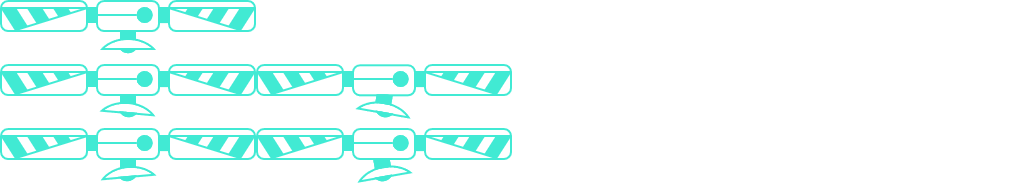
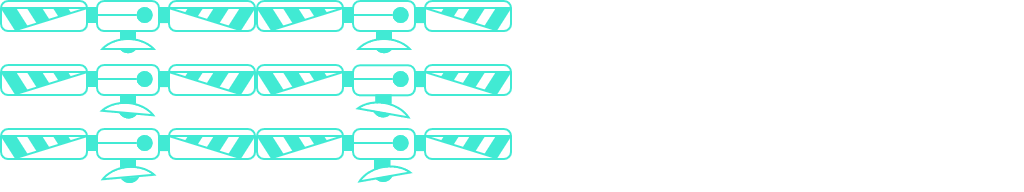
:sparkles: Add animation to Player's left-right movement

Changed region(s): [[0.25, 0.0, 0.5, 0.2812], [0.125, 0.9062, 0.1562, 0.9688]]

diff --git a/Arkanoid/Arkanoid/core/controllers/keyboard/keyboard.c b/Arkanoid/Arkanoid/core/controllers/keyboard/keyboard.c
@@ -24,6 +24,9 @@ status handle_player_movement(Allegro *allegro, bool keys[], Player *player) {
 }
 
 status handle_keyboard(Allegro *allegro, bool keys[], ALLEGRO_EVENT event, Player *player, Ball *ball, Block *block) {
+	unsigned int frame_delay = 8;
+	unsigned int frame_max = get_sprite_max_frame(get_player_sprite(player));
+
 	draw_player(player);
 	draw_ball(ball, SPRITE_FRAME_MIN_DEFAULT);
 	draw_block(block, SPRITE_FRAME_MIN_DEFAULT);
@@ -45,10 +48,12 @@ status handle_keyboard(Allegro *allegro, bool keys[], ALLEGRO_EVENT event, Playe
 
 		case ALLEGRO_KEY_LEFT:
 			keys[KEY_LEFT] = true;
+			set_sprite_frame_column(get_player_sprite(player), 2);
 			break;
 
 		case ALLEGRO_KEY_RIGHT:
 			keys[KEY_RIGHT] = true;
+			set_sprite_frame_column(get_player_sprite(player), 1);
 			break;
 		}
 	}
@@ -64,10 +69,12 @@ status handle_keyboard(Allegro *allegro, bool keys[], ALLEGRO_EVENT event, Playe
 
 		case ALLEGRO_KEY_LEFT:
 			keys[KEY_LEFT] = false;
+			set_sprite_frame_column(get_player_sprite(player), SPRITE_FRAME_COLUMN_DEFAULT);
 			break;
 
 		case ALLEGRO_KEY_RIGHT:
 			keys[KEY_RIGHT] = false;
+			set_sprite_frame_column(get_player_sprite(player), SPRITE_FRAME_COLUMN_DEFAULT);
 			break;
 
 		case ALLEGRO_KEY_ESCAPE:
@@ -77,6 +84,17 @@ status handle_keyboard(Allegro *allegro, bool keys[], ALLEGRO_EVENT event, Playe
 	if (event.type == ALLEGRO_EVENT_TIMER) {
 		if (handle_player_movement(allegro, keys, player) == STATUS_ERROR_SETVALUE) {
 			return STATUS_ERROR_EXIT;
+		}
+
+		set_sprite_frame_count(get_player_sprite(player), get_sprite_frame_count(get_player_sprite(player)) + 1);
+
+		if (get_sprite_frame_count(get_player_sprite(player)) >= frame_delay) {
+			set_player_current_frame(player, get_player_current_frame(player) + 1);
+			if (get_player_current_frame(player) >= frame_max) {
+				set_player_current_frame(player, SPRITE_FRAME_CURRENT_DEFAULT);
+			}
+
+			set_sprite_frame_count(get_player_sprite(player), 0);
 		}
 	}
 	if (event.type == ALLEGRO_EVENT_DISPLAY_CLOSE) {

diff --git a/Arkanoid/Arkanoid/models/sprite/sprite.c b/Arkanoid/Arkanoid/models/sprite/sprite.c
@@ -19,6 +19,8 @@ Sprite *create_sprite(char *image_path, unsigned int min, unsigned int max, unsi
 	sprite->frame.min = min;
 	sprite->frame.max = max;
 	sprite->frame.current = current;
+	sprite->frame.count = 0;
+	sprite->frame.column = SPRITE_FRAME_COLUMN_DEFAULT;
 
 	return sprite;
 }
@@ -89,6 +91,7 @@ unsigned int get_sprite_min_frame(Sprite *sprite) {
 	return sprite->frame.min;
 }
 
+
 /**
 * Set the last animation frame index of the Sprite.
 */
@@ -135,4 +138,52 @@ unsigned int get_sprite_current_frame(Sprite *sprite) {
 	}
 
 	return sprite->frame.current;
+}
+
+/**
+* Set the animation frame count.
+*/
+status set_sprite_frame_count(Sprite *sprite, unsigned int count) {
+	if (!sprite) {
+		return STATUS_ERROR_SETVALUE;
+	}
+
+	sprite->frame.count = count;
+
+	return STATUS_OK_SETVALUE;
+}
+
+/**
+* Retrieve the animation frame count.
+*/
+unsigned int get_sprite_frame_count(Sprite *sprite) {
+	if (!sprite) {
+		return SPRITE_FRAME_MIN_DEFAULT;
+	}
+
+	return sprite->frame.count;
+}
+
+/**
+* Set the spritesheet animation column.
+*/
+status set_sprite_frame_column(Sprite *sprite, unsigned int column) {
+	if (!sprite) {
+		return STATUS_ERROR_SETVALUE;
+	}
+
+	sprite->frame.column = column;
+
+	return STATUS_OK_SETVALUE;
+}
+
+/**
+* Retrieve spritesheet animation column.
+*/
+unsigned int get_sprite_frame_column(Sprite *sprite) {
+	if (!sprite) {
+		return SPRITE_FRAME_COLUMN_DEFAULT;
+	}
+
+	return sprite->frame.column;
 }

diff --git a/Arkanoid/Arkanoid/models/sprite/sprite.h b/Arkanoid/Arkanoid/models/sprite/sprite.h
@@ -9,6 +9,8 @@ typedef struct Frame {
 	unsigned int min;
 	unsigned int max;
 	unsigned int current;
+	unsigned int count;
+	unsigned int column;
 } Frame;
 
 typedef struct Sprite {
@@ -20,6 +22,7 @@ static const char *SPRITE_IMAGE_DEFAULT = NULL;
 static const unsigned int SPRITE_FRAME_MIN_DEFAULT = 0;
 static const unsigned int SPRITE_FRAME_MAX_DEFAULT = 8;
 static const unsigned int SPRITE_FRAME_CURRENT_DEFAULT = 0;
+static const unsigned int SPRITE_FRAME_COLUMN_DEFAULT = 0;
 
 Sprite *create_sprite(char *image_path, unsigned int min, unsigned int max, unsigned int current);
 status destroy_sprite(Sprite *sprite);
@@ -35,3 +38,9 @@ unsigned int get_sprite_max_frame(Sprite *sprite);
 
 status set_sprite_current_frame(Sprite *sprite, unsigned int current);
 unsigned int get_sprite_current_frame(Sprite *sprite);
+
+status set_sprite_frame_count(Sprite *sprite, unsigned int count);
+unsigned int get_sprite_frame_count(Sprite *sprite);
+
+status set_sprite_frame_column(Sprite *sprite, unsigned int column);
+unsigned int get_sprite_frame_column(Sprite *sprite);

diff --git a/Arkanoid/Arkanoid/models/player/player.h b/Arkanoid/Arkanoid/models/player/player.h
@@ -15,9 +15,10 @@ typedef struct Player {
 static const unsigned int PLAYER_HP_DEFAULT = 3;
 static const unsigned int PLAYER_VELOCITY_DEFAULT = 8;
 static const unsigned int PLAYER_SCORE_DEFAULT = 0;
-static const char *PLAYER_IMAGE_DEFAULT_PATH = "./assets/images/player/Satellite.png";
+static const char *PLAYER_IMAGE_DEFAULT_PATH = "./assets/images/player/satellite.png";
 static const unsigned int PLAYER_HEIGHT = 64;
 static const unsigned int PLAYER_WIDTH = 256;
+static const unsigned int PLAYER_SPRITE_MAX = 2;
 
 Player *create_player(Object *object, Sprite *sprite, unsigned int hp, unsigned int score);
 status destroy_player(Player *player);

diff --git a/Arkanoid/Arkanoid/models/player/player.c b/Arkanoid/Arkanoid/models/player/player.c
@@ -266,11 +266,12 @@ status draw_player(Player *player) {
 	}
 
 	Position player_position = get_player_position(player);
+	unsigned int column = get_sprite_frame_column(get_player_sprite(player));
 
 	al_draw_tinted_scaled_rotated_bitmap_region(
 		get_sprite_image(get_player_sprite(player)),
 		PLAYER_WIDTH * get_player_current_frame(player),
-		0,
+		get_sprite_frame_column(get_player_sprite(player)) * PLAYER_HEIGHT,
 		PLAYER_WIDTH,
 		PLAYER_HEIGHT,
 		al_map_rgb(255, 255, 255),

diff --git a/Arkanoid/Arkanoid/main/main.c b/Arkanoid/Arkanoid/main/main.c
@@ -29,7 +29,7 @@ status main(int argc, char **argv) {
 		create_sprite(
 		(char *)PLAYER_IMAGE_DEFAULT_PATH,
 			(unsigned int)SPRITE_FRAME_MIN_DEFAULT,
-			(unsigned int)SPRITE_FRAME_MAX_DEFAULT,
+			(unsigned int)PLAYER_SPRITE_MAX,
 			(unsigned int)SPRITE_FRAME_CURRENT_DEFAULT
 		),
 		PLAYER_HP_DEFAULT,

diff --git a/Arkanoid/Arkanoid/models/block/block.c b/Arkanoid/Arkanoid/models/block/block.c
@@ -32,7 +32,6 @@ status destroy_block(Block *block) {
 	return STATUS_OK_SETVALUE;
 }
 
-
 /**
 * Set the Block's game Object properties.
 */
